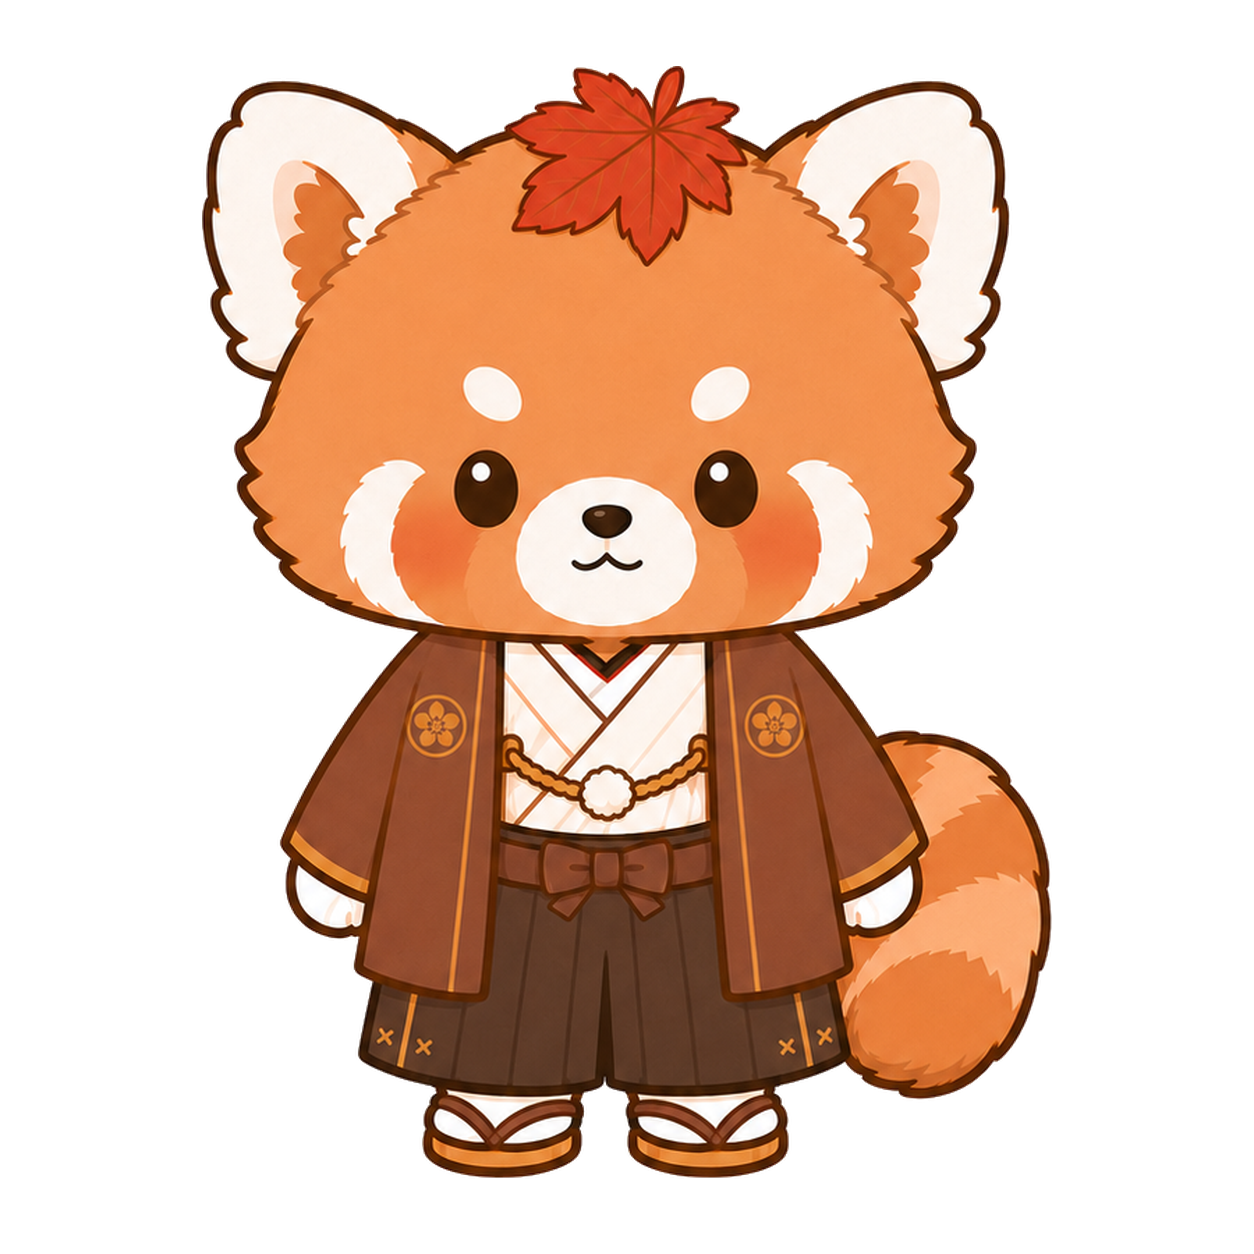
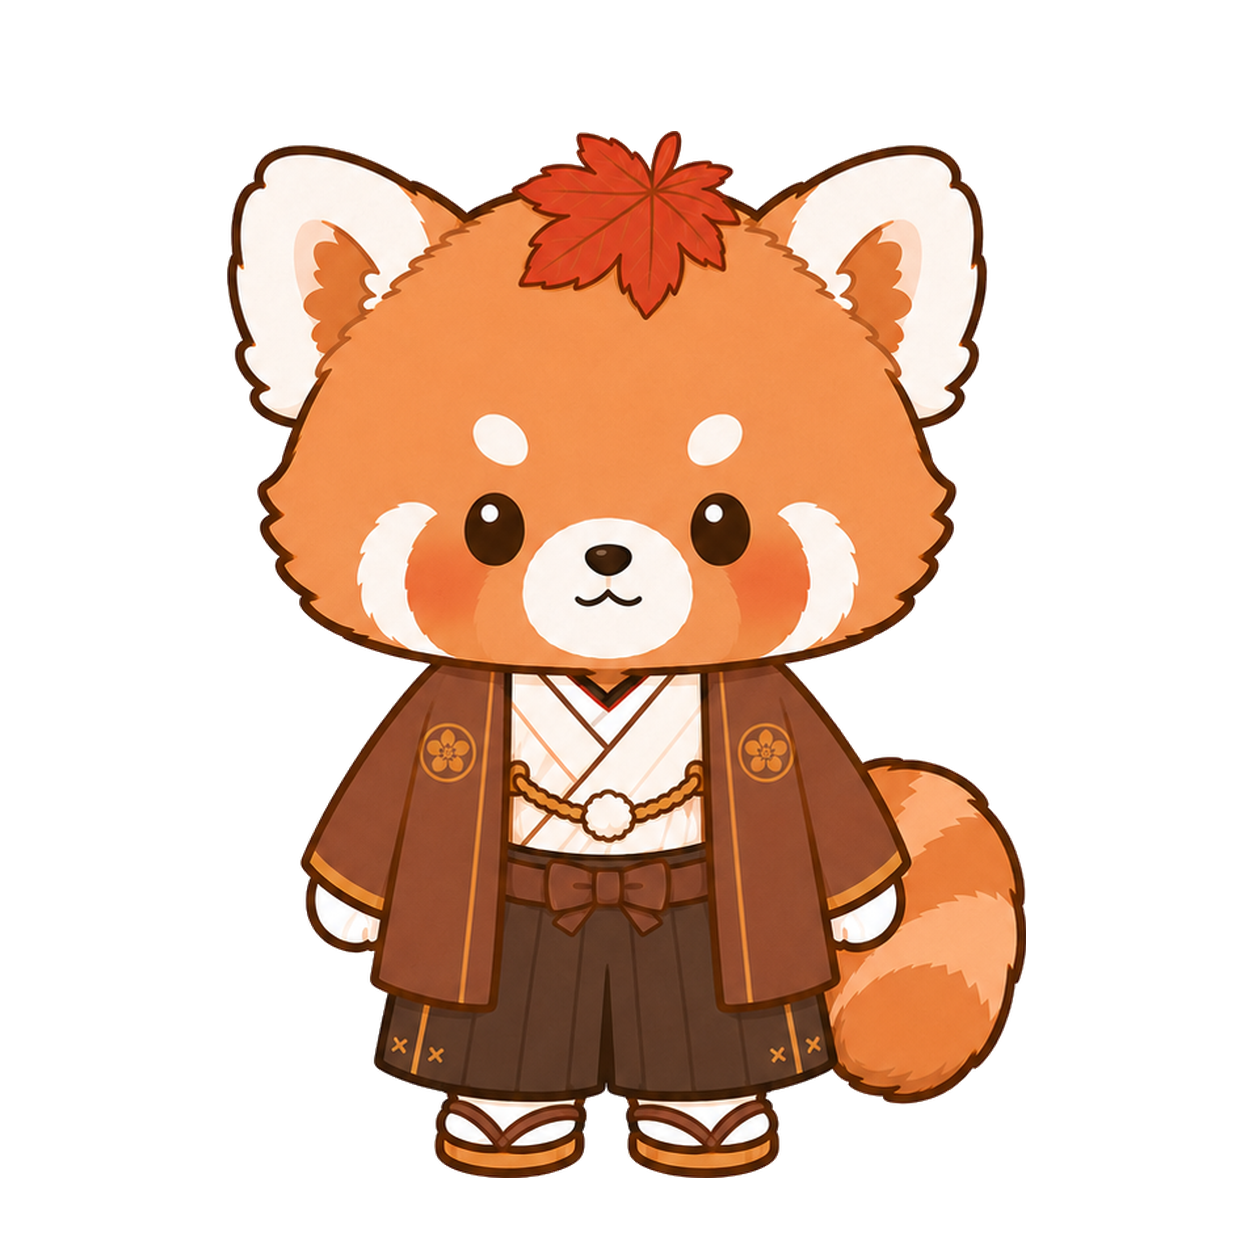
fix(cocoa): size Aki skins by head, not total height
Matching total silhouette height made the hatless demon/relax bodies too
big (classic's tall chef hat inflated its "height"). Re-pad demon/relax
so their HEAD matches classic's, feet on the same line — the character now
reads the same size across outfits, with headwear (hat/horns/leaf) varying
naturally. Metrics re-measured.

Changed region(s): [[0.1555, 0.0311, 0.8397, 0.933]]

diff --git a/src/constants/figure-calibration.ts b/src/constants/figure-calibration.ts
@@ -13,8 +13,8 @@ export const FIGURE_METRICS: Record<string, { fill: number; pad: number }> = {
   'companion_bunny/jiraikei': { fill: 0.8190, pad: 0.0750 },
   'companion_bunny/palace': { fill: 0.9370, pad: 0.0407 },
   'companion_cocoa/classic': { fill: 0.8876, pad: 0.0598 },
-  'companion_cocoa/demon': { fill: 0.8868, pad: 0.0598 },
-  'companion_cocoa/relax': { fill: 0.8876, pad: 0.0598 },
+  'companion_cocoa/demon': { fill: 0.8892, pad: 0.0606 },
+  'companion_cocoa/relax': { fill: 0.8349, pad: 0.0606 },
   'companion_honey/champion': { fill: 0.8325, pad: 0.0845 },
   'companion_honey/classic': { fill: 0.9537, pad: 0.0255 },
   'companion_honey/zzz': { fill: 0.8644, pad: 0.0526 },
